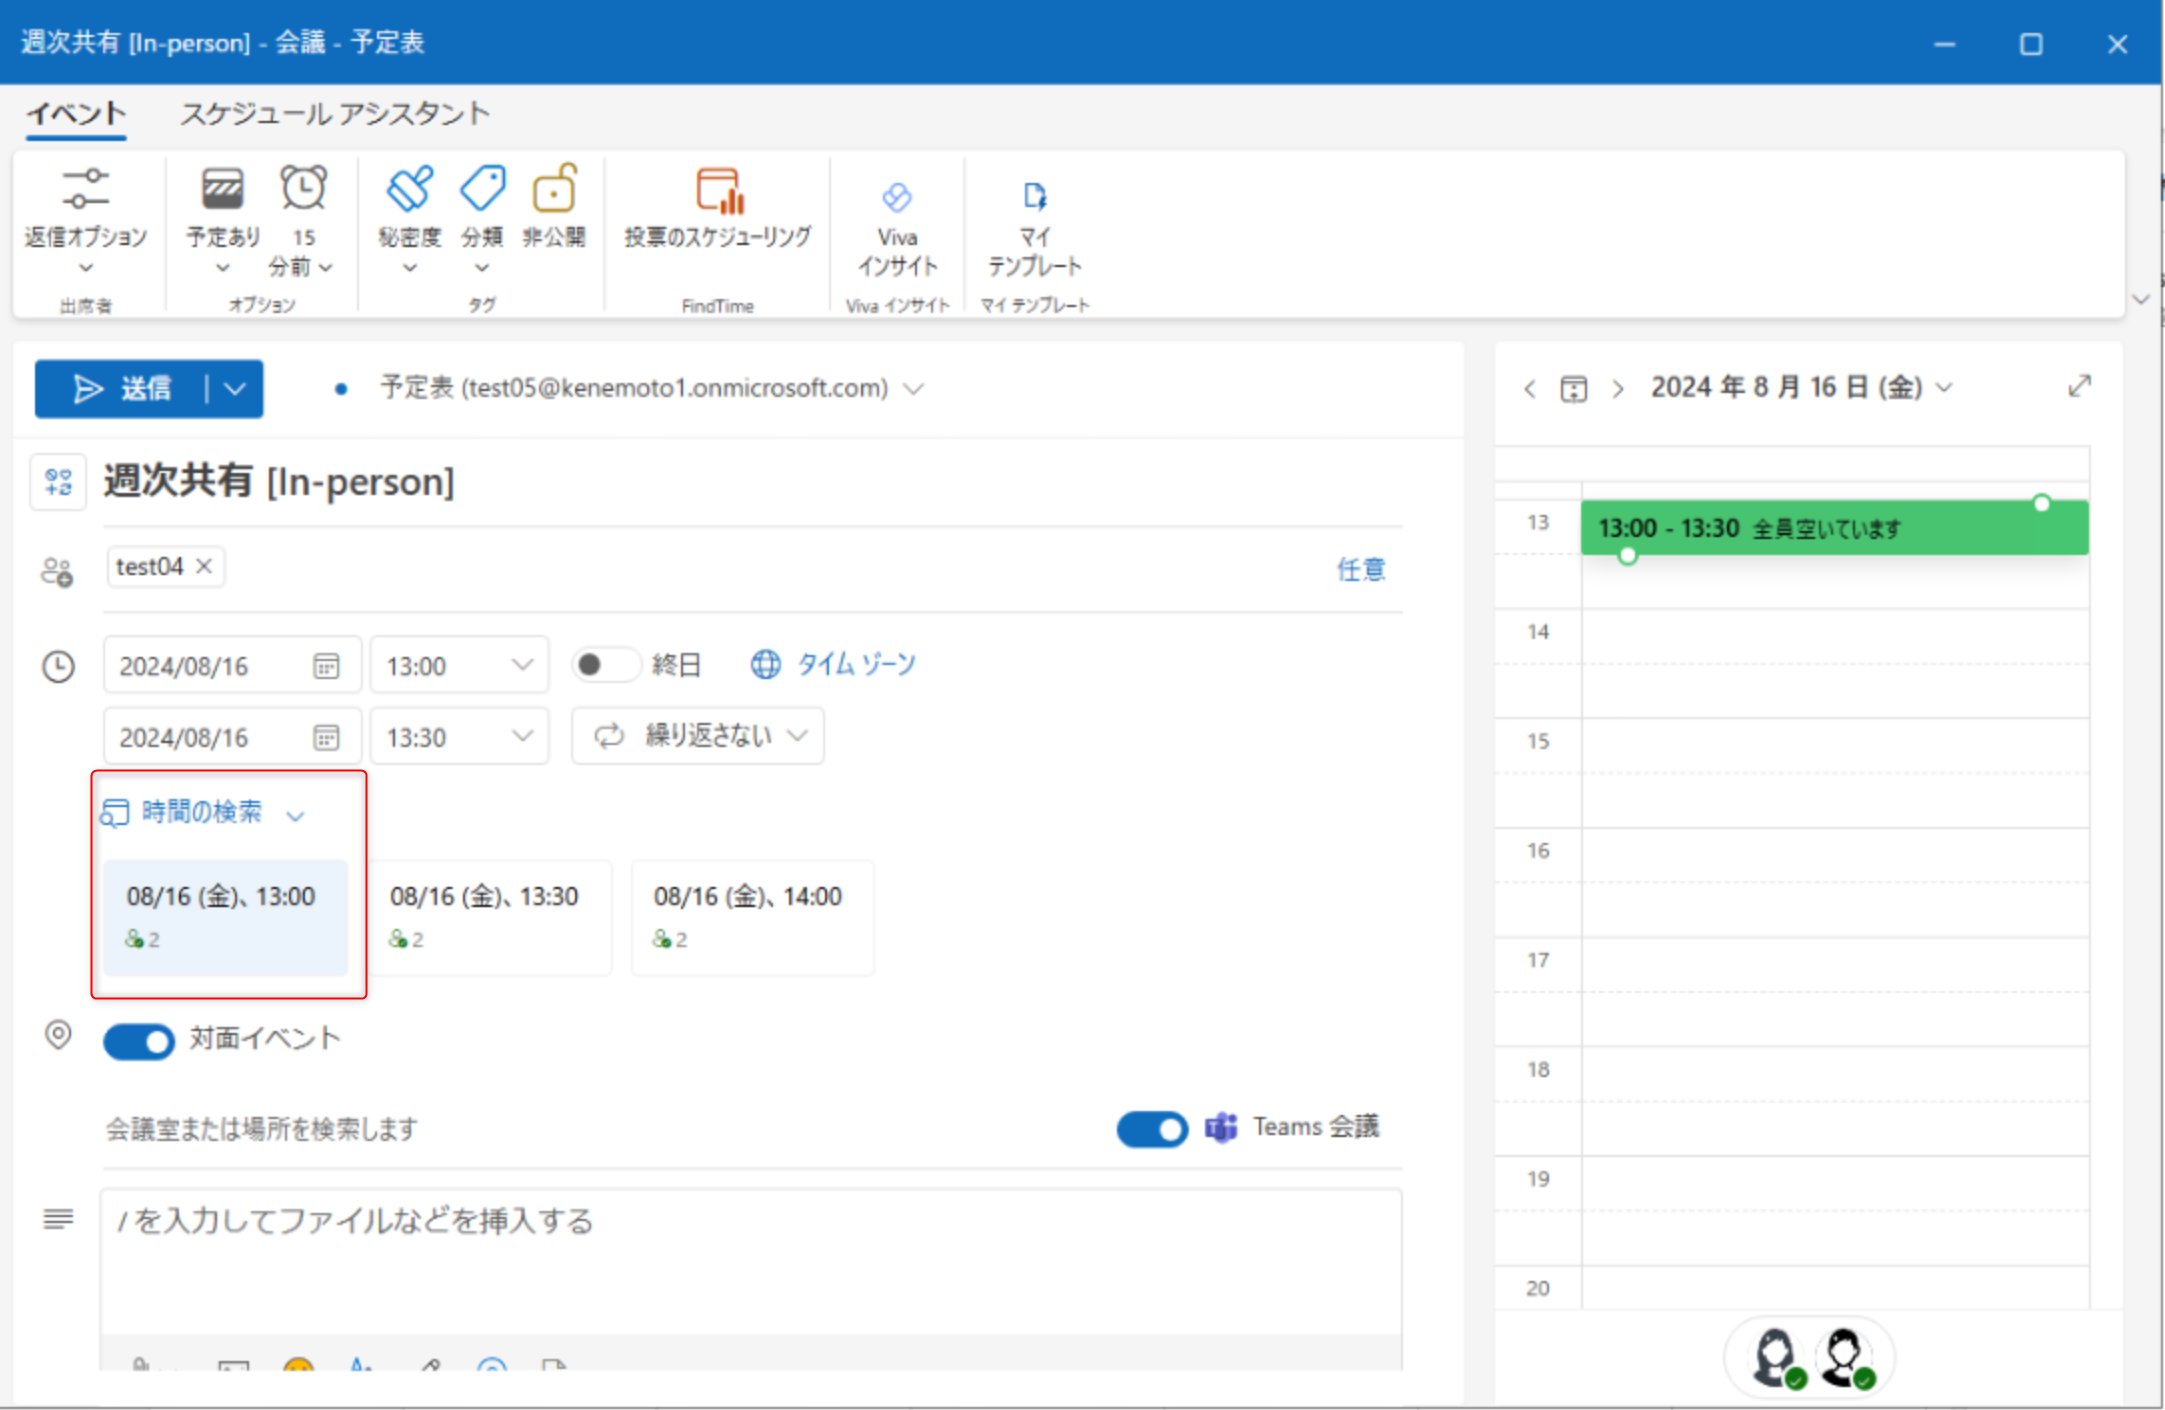
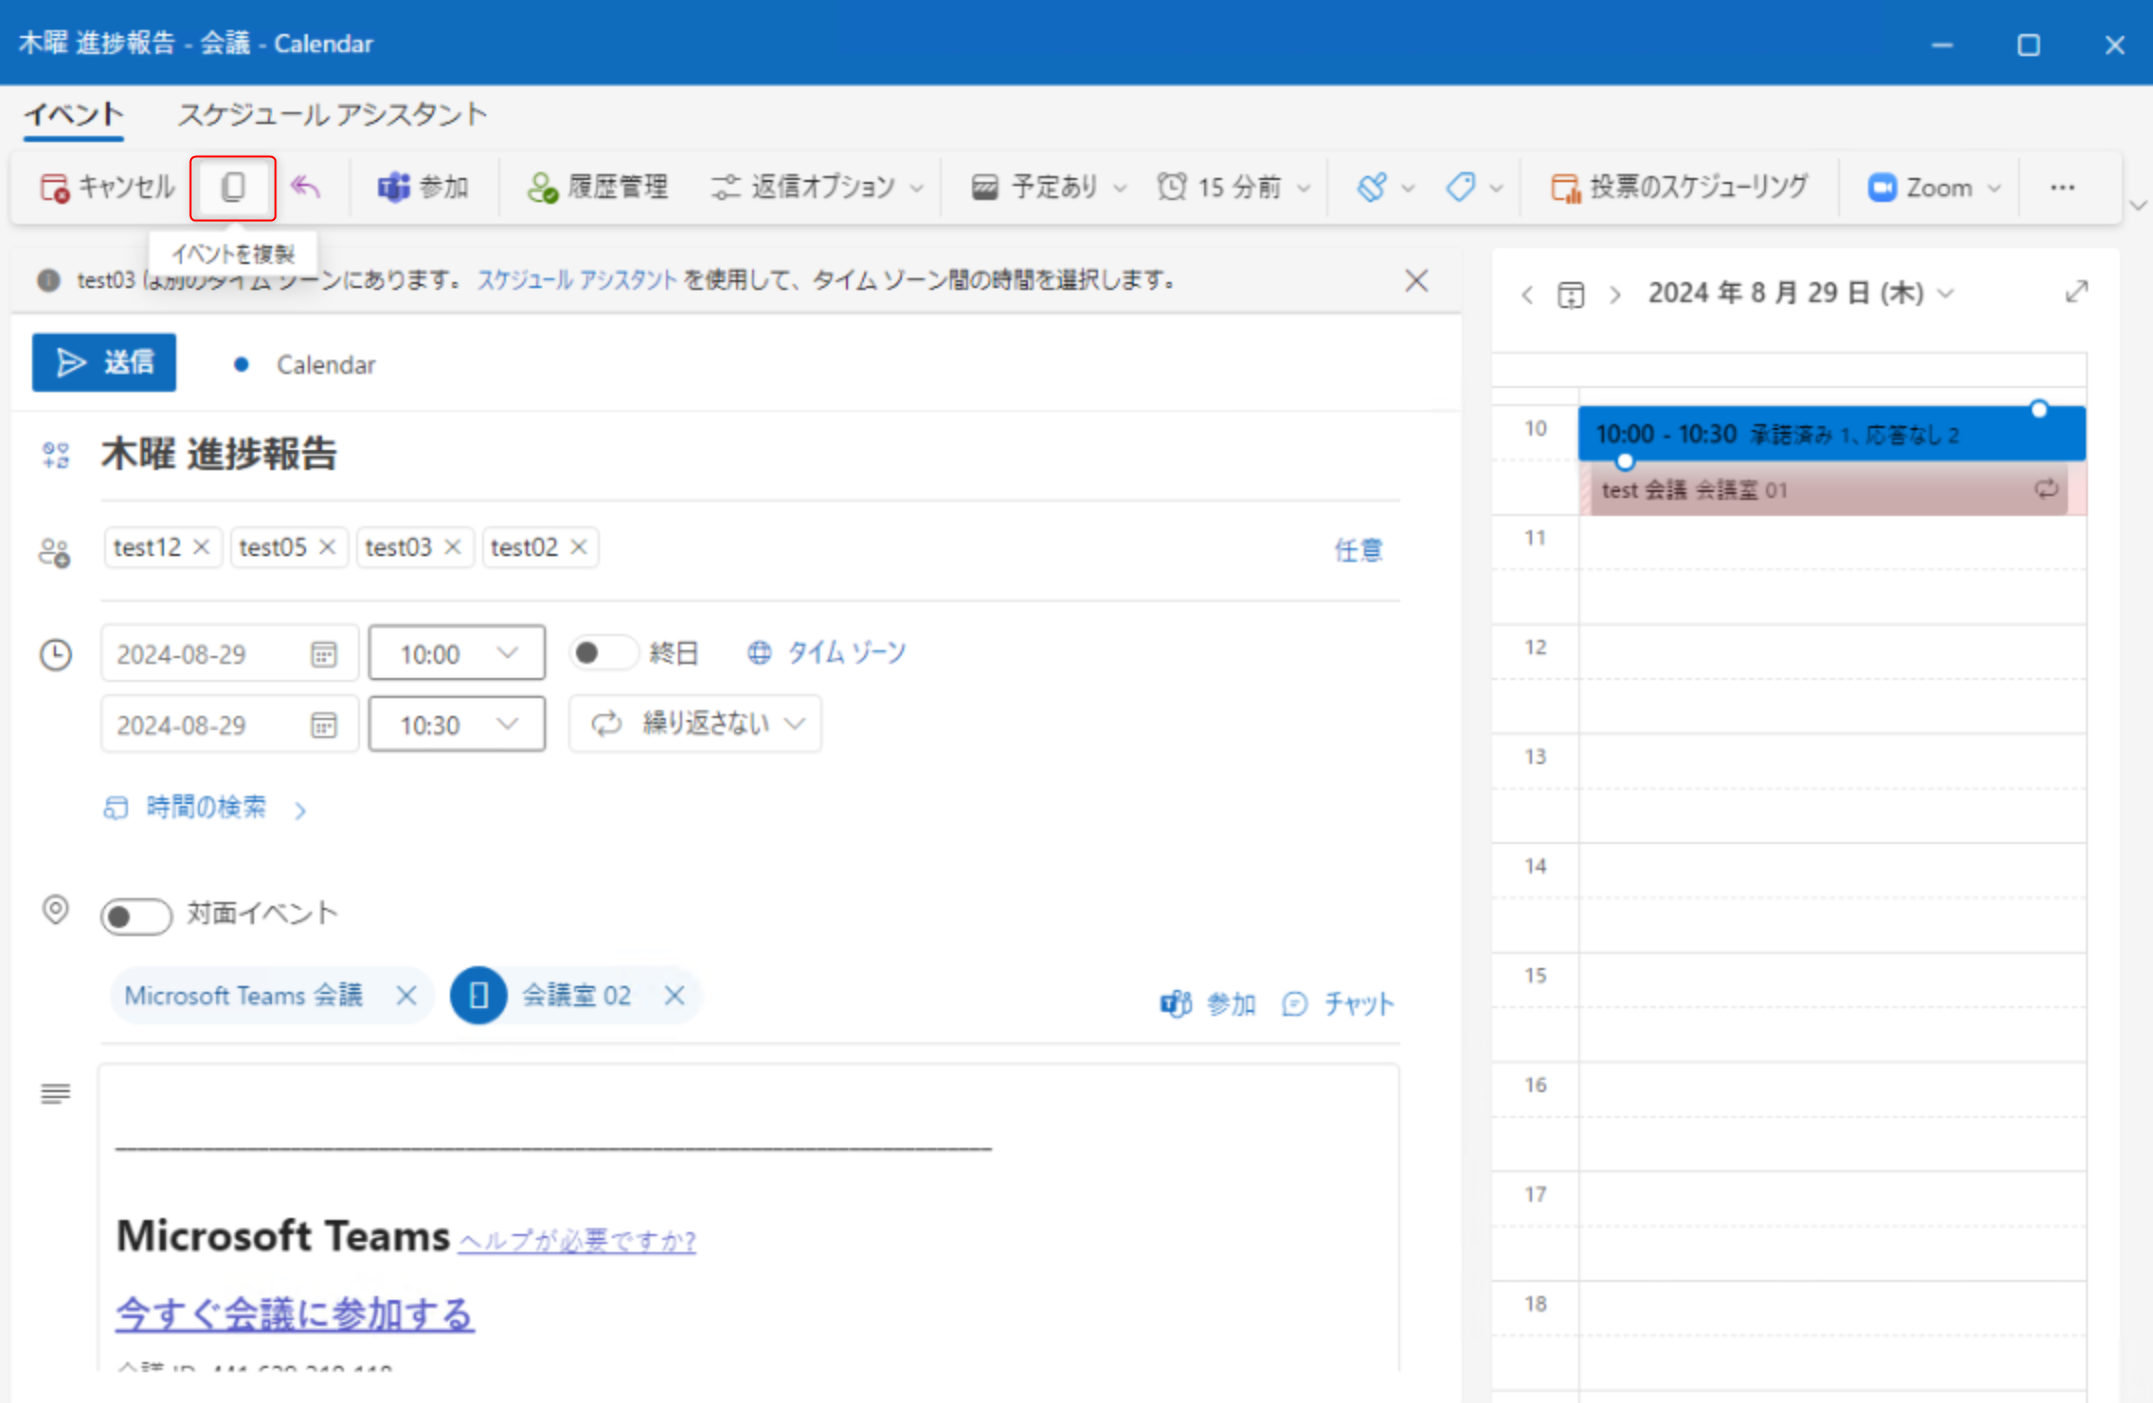
※先ほど Commit しましたが、不備があったので再 Commit します。 高取さんにご指摘いただいた箇所 4 点を修正しました。 また、セクション 3 を読み返すとなんか書き直した方が良さそうと思い、以下の通り修正しました。
修正前:
なお、Microsoft は事前に会議リンクを作成するように本動作の更新に取り組んでいます。将来的には、従来の Outlook と同じエクスぺリエンスとなる予定です。

修正後:
なお、Microsoft は本動作の更新に取り組んでおり、将来的には従来の Outlook と同じエクスぺリエンス (会議の招待を送信する前に会議リンクを作成・追加する動作) となる予定です。

セクション 7 の画面ショットも、英語版のブログに近づけるため差し替えています。

diff --git a/source/_posts/New-Outlook-for-Windows-a-guide-for-Executive-Assistants-and-Delegates-part-2.md b/source/_posts/New-Outlook-for-Windows-a-guide-for-Executive-Assistants-and-Delegates-part-2.md
@@ -38,7 +38,6 @@ tags:
 新しい Outlook では出席者が会議の招待を会議室へ転送することで、その会議室を追加できます。その後、その会議室はすべての出席者に表示されます。  
 ![](image-7.png)
 
-
 ## 6. 定期的なイベントの編集
 
 新しい Outlook for Windows では、定期的なイベントを編集する際に以下のオプションがあります。
@@ -52,7 +51,7 @@ tags:
 
 予定表上でイベントを右クリックし、[イベントを複製] を選択します。(これにより、既存のイベントを活用して新たな会議の招待を送信できます。) 会議フォームのリボンからもこれを行うことができます。
 ![](image-11.png)
-![](image-10.png)
+![](image-1.png)
 
 ## 8. 複数のタイム ゾーンを予定表に追加する
 
